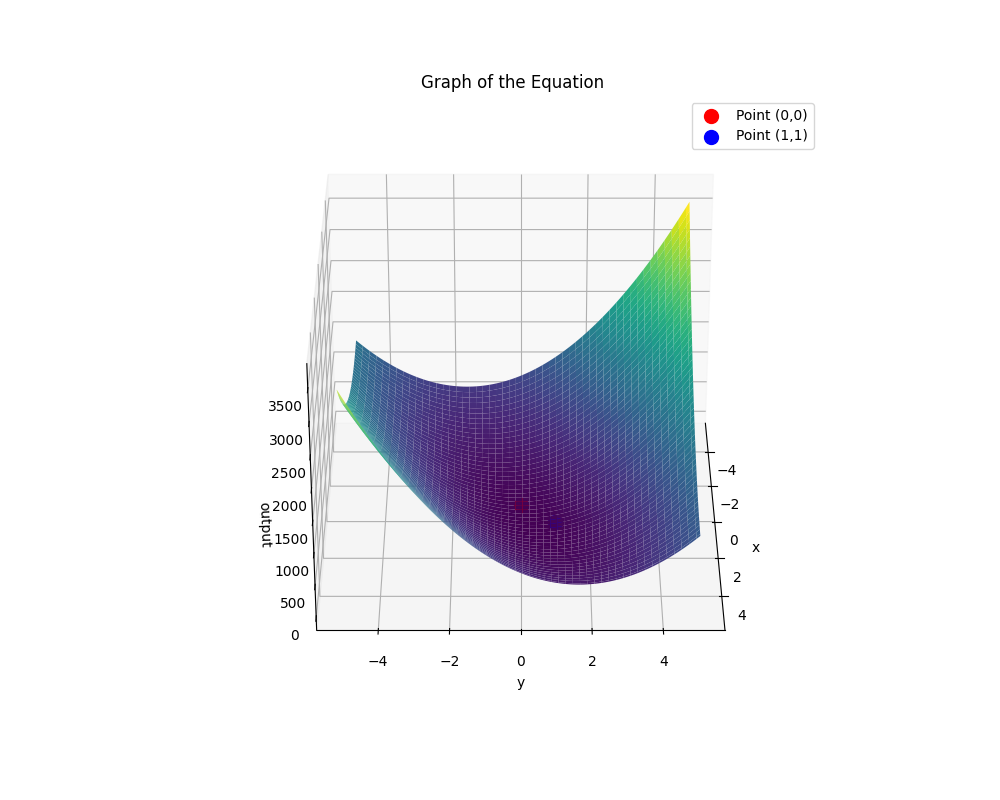
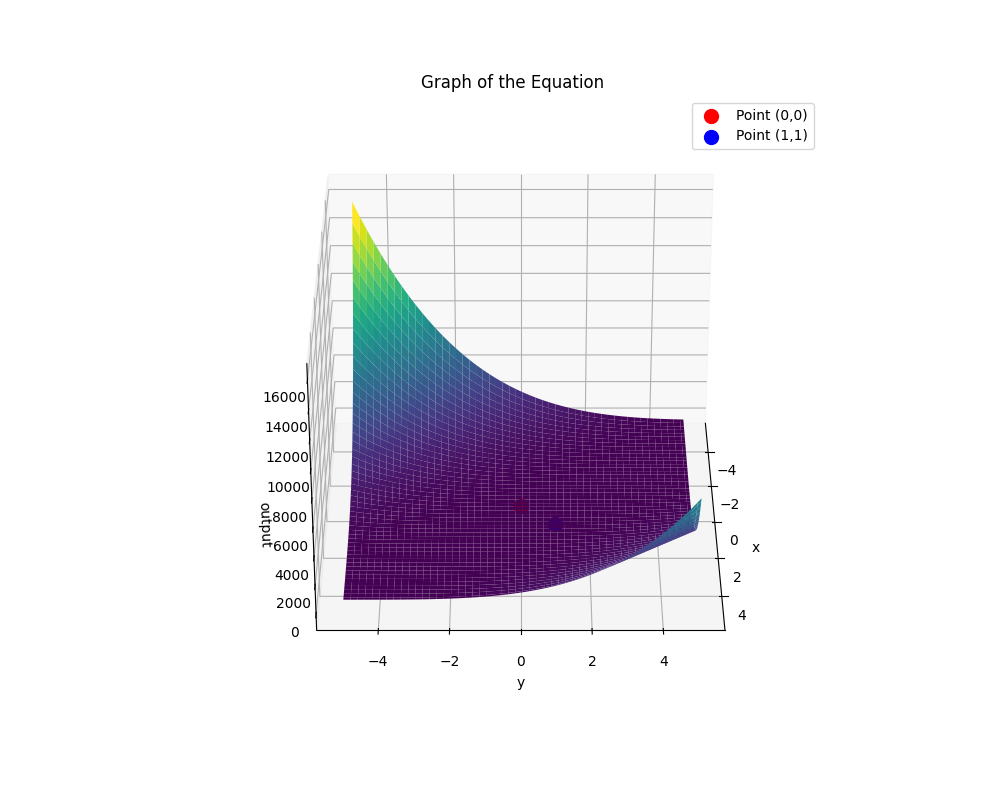
added requirements.txt and also gave the graph formed by the neural network

Changed region(s): [[0.248, 0.2188, 0.713, 0.7812]]

diff --git a/new.py b/new.py
@@ -17,8 +17,8 @@ def train(weights):
     return weights
 
 def calculate(input_layer, hidden_layer, output_layer, hidden_bias, output_bias):
-    hidden_activation = np.maximum(0,np.dot(input_layer, hidden_layer) + hidden_bias)
-    output_activation = np.maximum(0,np.dot(hidden_activation, output_layer) + output_bias)
+    hidden_activation = (np.dot(input_layer, hidden_layer) + hidden_bias)**2
+    output_activation = (np.dot(hidden_activation, output_layer) + output_bias)**2
     return output_activation
 
 def cost():

diff --git a/display.py b/display.py
@@ -4,13 +4,7 @@ from mpl_toolkits.mplot3d import Axes3D
 
 # Define the equationdef equation(x, y):
 def equation(x,y):
-    a = 22.7054 * x**2
-    b = -44.6419 * x * y
-    c = 68.0480 * y**2
-    d = -32.0090 * x
-    e = 71.6052
-    output = np.maximum(0, a + b + c + d + e)
-    return output
+   return ((1.1*(x*1.05+y*0.788-1.018)**2 + 1.746*(x*0.27+y*0.24-0.032)**2 - 0.14)**2)
 
 x = np.linspace(-5, 5, 100)
 y = np.linspace(-5, 5, 100)
